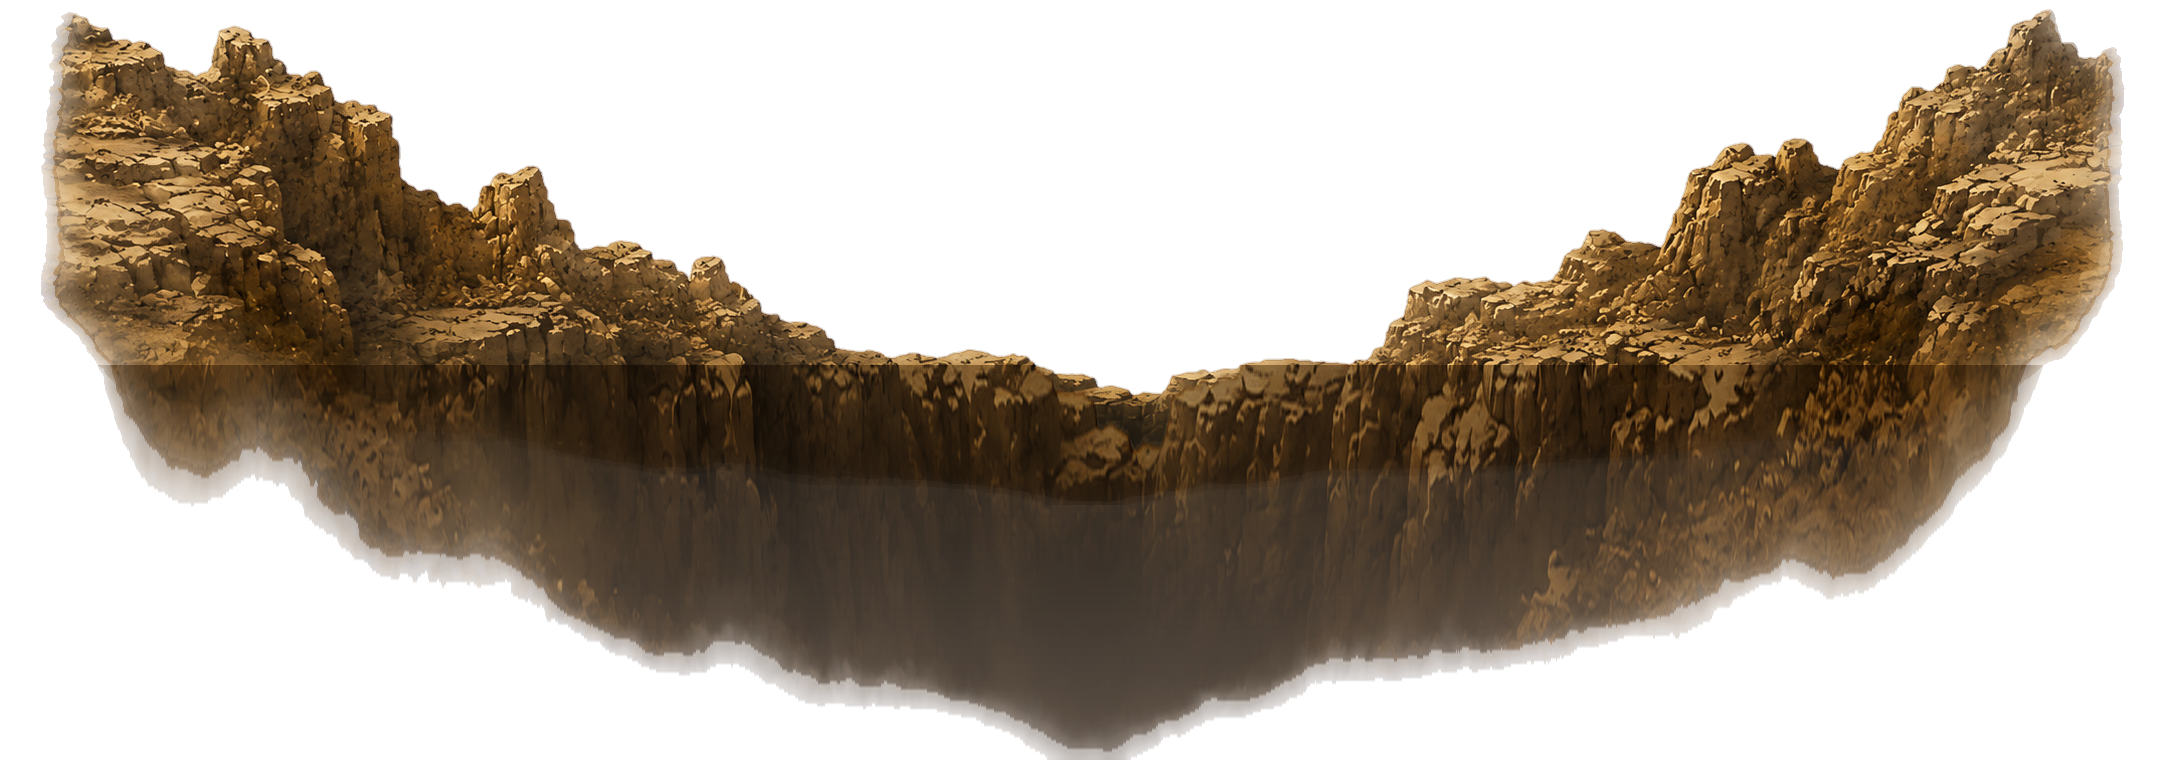
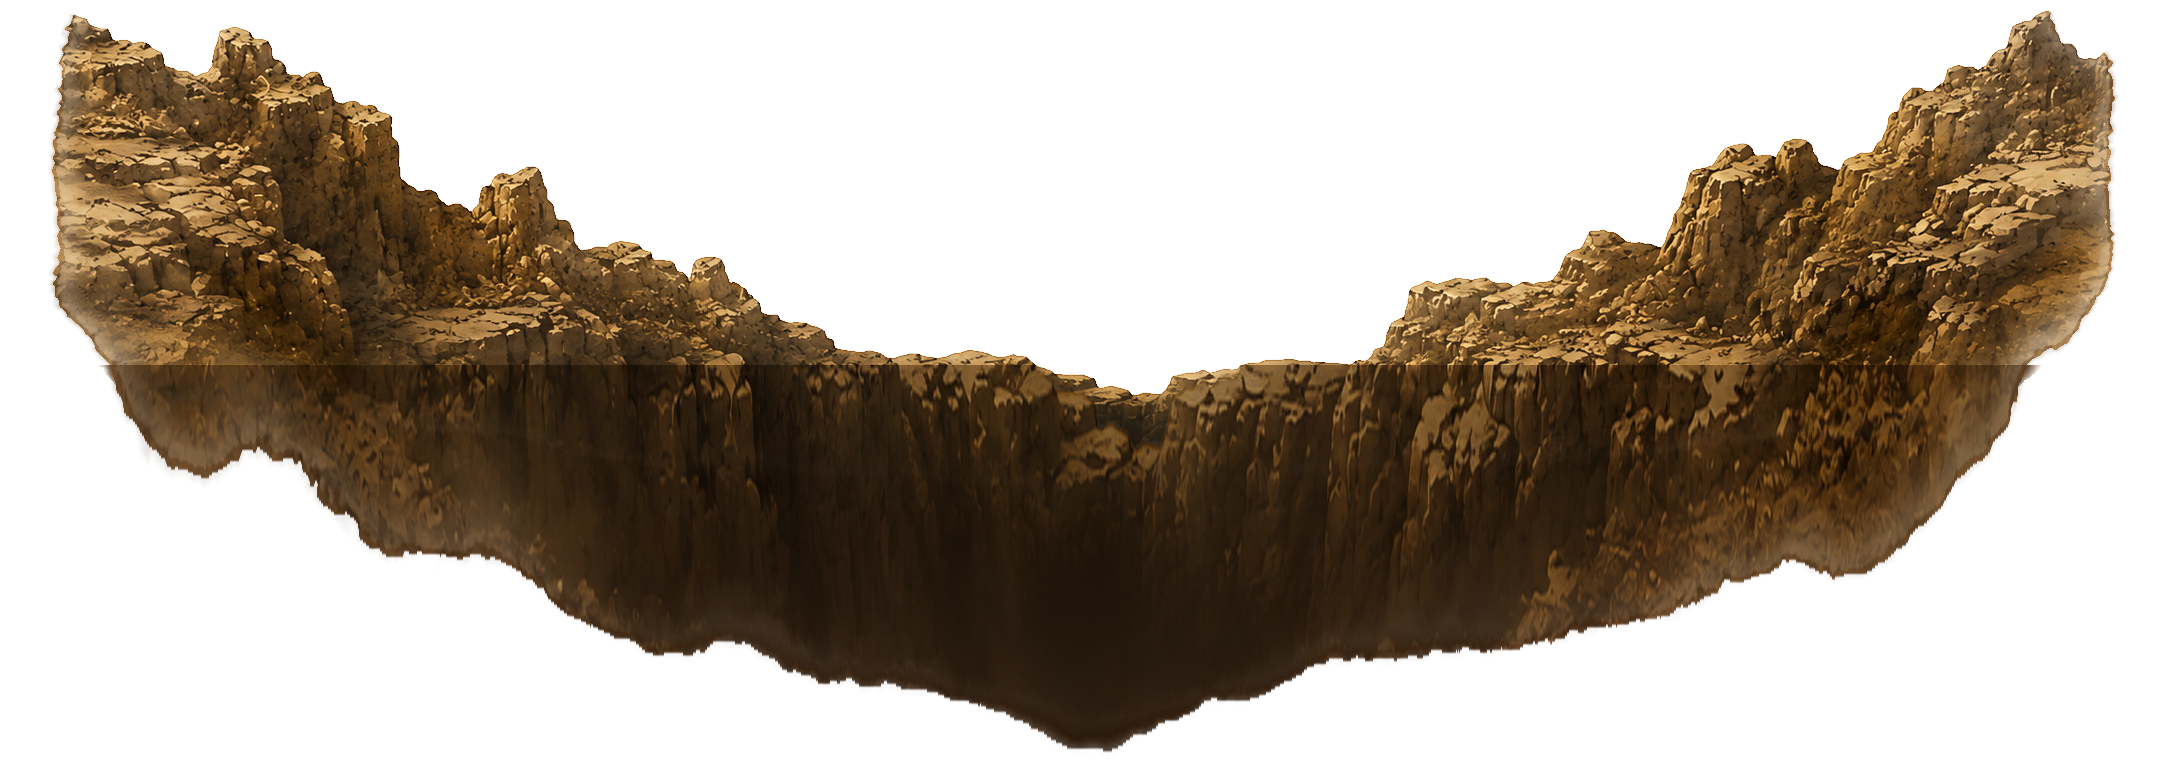
Sharpen soft alpha edges on ravine floor art
The wide and deep ravine floor PNGs had very wide feathered
silhouettes, and the deep one's whole lower body sat at ~80-90% alpha,
so in-scene the rocks read as a blurry, washed-out overlay. Added
scripts/sharpen_prop_alpha_edges.py, which remaps the alpha channel
with a smoothstep curve (<=72 transparent, >=176 opaque, smooth ramp
between) and ran it on both images: bodies are now solid and the
outlines tight but still anti-aliased. Bumped LOST_BRIDGE_ASSET_VERSION
so browsers refetch.

diff --git a/src/components/ExpeditionJourney.jsx b/src/components/ExpeditionJourney.jsx
@@ -464,7 +464,7 @@ const ARRIVAL_THRESHOLD_BACKGROUND_SRC = 'assets/expedition/backgrounds/arrival-
 const ARRIVAL_THRESHOLD_ASSET_VERSION = 'arrival-threshold-final-art-2026-06-08';
 
 // Ravine Bridge painted art (chroma-keyed cutouts + transparent floor/ravine blend).
-const LOST_BRIDGE_ASSET_VERSION = 'lost-bridge-art-2026-06-10';
+const LOST_BRIDGE_ASSET_VERSION = 'lost-bridge-art-2026-06-10b';
 const LOST_BRIDGE_ASSET_DIR = 'assets/expedition/environment/egypt-opening/lost-bridge/';
 const LOST_BRIDGE_STRUCTURE_SRC = `${LOST_BRIDGE_ASSET_DIR}lost-bridge-structure-cutout-2026-06-08.png`;
 const LOST_BRIDGE_RAVINE_FLOOR_VARIANT_SRCS = {

diff --git a/scripts/sharpen_prop_alpha_edges.py b/scripts/sharpen_prop_alpha_edges.py
@@ -1,0 +1,54 @@
+"""Sharpen the soft alpha edges of a cut-out prop PNG.
+
+Some AI-generated props come with very wide feathered silhouettes and/or a
+semi-transparent body (alpha 190-240), which reads as a blurry outline and a
+washed-out prop in the scene. This remaps the alpha channel with a smoothstep
+curve: alpha at or below LO becomes fully transparent, at or above HI becomes
+fully opaque, and the narrow range in between keeps a smooth anti-aliased
+transition. Colour channels are untouched.
+
+Usage:
+    python scripts/sharpen_prop_alpha_edges.py [--lo N] [--hi N] <image.png> [more.png ...]
+
+Defaults: --lo 72 --hi 176. Overwrites the input file(s); git is the backup.
+"""
+
+import sys
+
+from PIL import Image
+
+LO = 72
+HI = 176
+
+
+def smoothstep(edge0, edge1, value):
+    t = (value - edge0) / (edge1 - edge0)
+    t = 0.0 if t < 0.0 else 1.0 if t > 1.0 else t
+    return t * t * (3.0 - 2.0 * t)
+
+
+def sharpen_alpha(path, lo=LO, hi=HI):
+    im = Image.open(path).convert("RGBA")
+    lut = [int(round(255 * smoothstep(lo, hi, a))) for a in range(256)]
+    r, g, b, a = im.split()
+    a = a.point(lut)
+    Image.merge("RGBA", (r, g, b, a)).save(path)
+    changed = sum(1 for v in range(256) if lut[v] != v)
+    print(f"{path}: alpha remapped (lo={lo}, hi={hi}, {changed}/256 LUT entries changed)")
+
+
+if __name__ == "__main__":
+    args = sys.argv[1:]
+    lo, hi = LO, HI
+    if "--lo" in args:
+        i = args.index("--lo")
+        lo = int(args[i + 1])
+        del args[i : i + 2]
+    if "--hi" in args:
+        i = args.index("--hi")
+        hi = int(args[i + 1])
+        del args[i : i + 2]
+    if not args:
+        sys.exit(__doc__)
+    for p in args:
+        sharpen_alpha(p, lo, hi)
